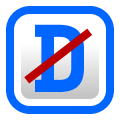
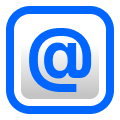
gh: Flipped detach state tag and menu item behaviour

Changed region(s): [[0.2, 0.2, 0.775, 0.775]]

diff --git a/ConnectorGrasshopper/ConnectorGrasshopper/Extras/GenericAccessParam.cs b/ConnectorGrasshopper/ConnectorGrasshopper/Extras/GenericAccessParam.cs
@@ -27,7 +27,7 @@ namespace ConnectorGrasshopper.Extras
           tags.Add(new OptionalStateTag());
         }
 
-        if (!Detachable)
+        if (Detachable)
           tags.Add(new DetachedStateTag());
         if (Access == GH_ParamAccess.list)
           tags.Add(new ListAccesStateTag());
@@ -70,11 +70,11 @@ namespace ConnectorGrasshopper.Extras
 
       var detachToggle = Menu_AppendItem(
         menu,
-        "Do Not Detach",
+        "Detach property",
         (s, e) => SetDetach(!Detachable),
         true,
-        Detachable == false);
-      detachToggle.ToolTipText = "Set this key as not detachable.";
+        Detachable);
+      detachToggle.ToolTipText = "Sets this key as detachable.";
       detachToggle.Image = Properties.Resources.StateTag_Detach;
 
       Menu_AppendSeparator(menu);

diff --git a/ConnectorGrasshopper/ConnectorGrasshopper/Extras/SpeckleStateTag.cs b/ConnectorGrasshopper/ConnectorGrasshopper/Extras/SpeckleStateTag.cs
@@ -17,11 +17,11 @@ namespace ConnectorGrasshopper.Extras
 
   public class DetachedStateTag : SpeckleStateTag
   {
-    public override string Description => "This property will not be detached";
-    public override string Name => "Do not detach";
+    public override string Description => "This property will be detached";
+    public override string Name => "Detached";
     public override Bitmap Icon => Properties.Resources.StateTag_Detach;
-    public override bool Crossed => true;
-    public override string Letter => "D";
+    public override bool Crossed => false;
+    public override string Letter => "@";
   }
 
   public class ListAccesStateTag : SpeckleStateTag
